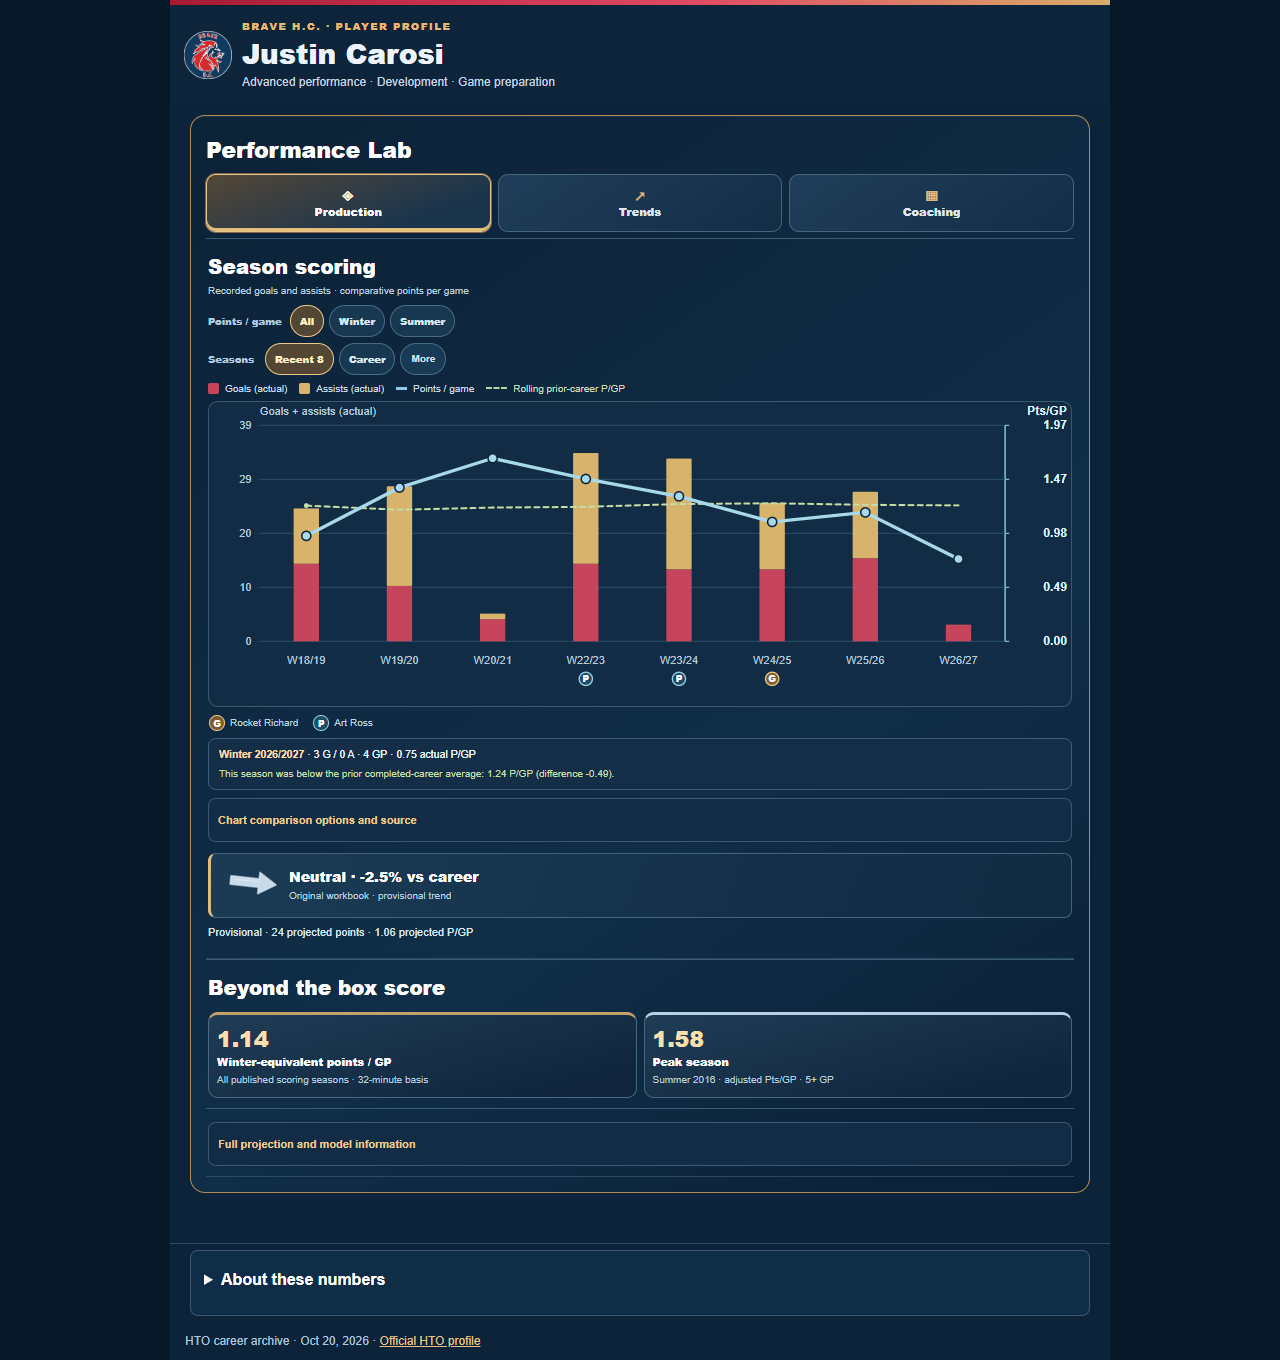
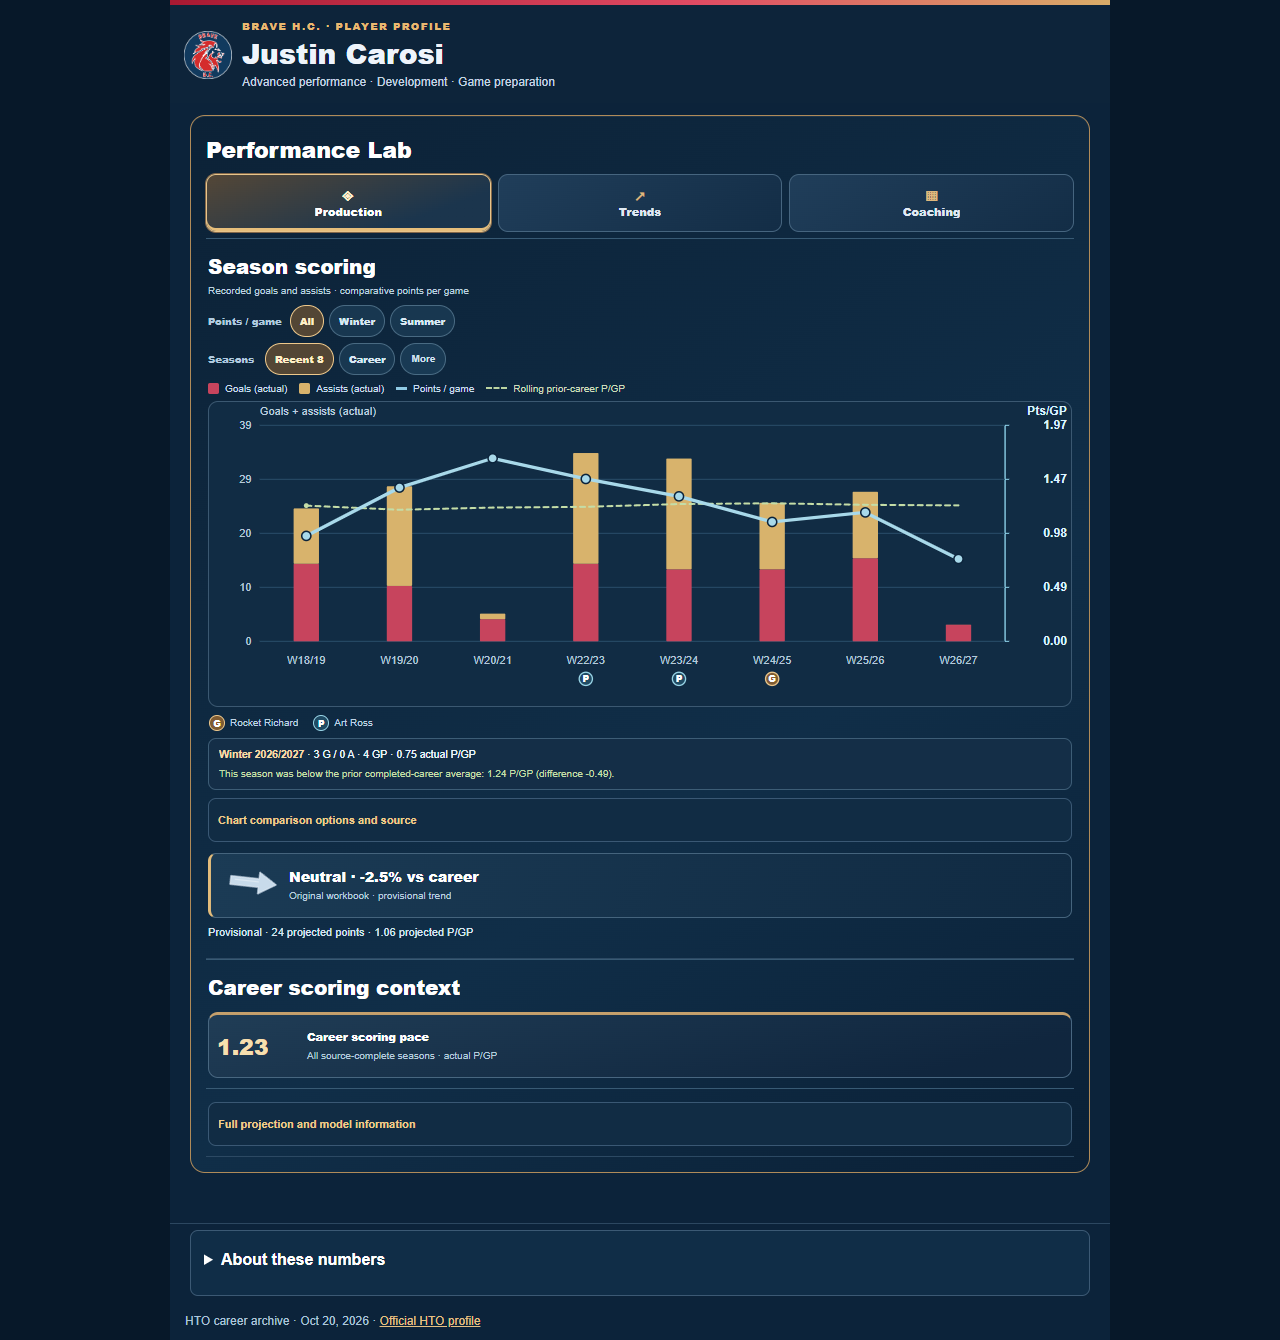
Remove decontextualized Bio peak cards and align career scoring pace with chart basis

diff --git a/widgets/player-bio-premium.js b/widgets/player-bio-premium.js
@@ -105,6 +105,10 @@ function setupTabs(){
         more.open=false;
       }
       renderChart();
+      if(group==='bioRateModes'&&state.player){
+        const player=sources.career?.players?.[state.player];
+        if(player)renderAdvancedMetrics(player);
+      }
     });
   }
 }
@@ -615,6 +619,7 @@ function renderAdvancedMetrics(player){
   const seg=player?.segments?.find(s=>s.kind===wanted);
   const target=$('bioAdvancedGrid'),more=$('bioSecondaryMetrics');
   target.replaceChildren();more.replaceChildren();
+  target.classList.remove('one-stat');
   const result=engine&&seg?(seg.kind==='skater'?engine.skater(seg,sources.formats):engine.goalie(seg,sources.formats)):null;
   const split=$('bioScoringMix');split.replaceChildren();split.hidden=true;
   state.analysis=result;
@@ -628,11 +633,26 @@ function renderAdvancedMetrics(player){
   $('bioCollectionCount').textContent=c.complete+' / '+c.total+' seasons';
   $('bioCollectionSub').textContent='Choose a collection · '+c.complete+' source-qualified '+(seg.kind==='goalie'?'goalie':'scoring')+' seasons';
   if(result.kind==='skater'){
-    insight(target,'Winter-equivalent points / GP',decimal(o.winterPtsPerGP??o.verifiedSeasonWinterPtsPerGP),
-      (o.winterPtsPerGP===null?'Verified seasons only · ':'All published scoring seasons · ')+'32-minute basis');
+    // The headline rate uses the SAME Actual / Winter / Summer time basis as
+    // the chart's Pts/GP line. Never show a Winter-only career value next to
+    // an Actual chart without an explicit basis change.
+    const rolling=window.HockeyOSBioRollingCareer?.calculate(
+      seg.seasons||[],sources.formats,state.rate);
+    const full=rolling?.status==='SOURCE_CALCULATED'&&rolling.complete&&
+      num(rolling.fullCareerRate);
+    const candidate=engine.verifiedSeasons(seg,'skater').valid
+      .filter(r=>num(engine.factor(r.Season,sources.formats,state.rate)));
+    const verifiedRate=engine.rate(candidate,'Pts',state.rate,sources.formats);
+    const shownRate=full?rolling.fullCareerRate:verifiedRate;
+    const basisLabel=state.rate==='actual'?'actual':
+      state.rate==='winter'?'Winter-equivalent':'Summer-equivalent';
+    const gameLength=state.rate==='winter'?' · 32-minute basis':
+      state.rate==='summer'?' · 48-minute basis':'';
+    insight(target,full?'Career scoring pace':'Verified-season scoring pace',
+      decimal(shownRate),
+      (full?'All source-complete seasons':'Available complete-scoring seasons only')+
+      ' · '+basisLabel+' P/GP'+gameLength);
     extra(more,'Share of actual career points from goals',percent(o.goalsShare));
-    insight(target,'Peak season',o.peak?decimal(o.peak.rate):'Unavailable',
-      o.peak?o.peak.season+' · adjusted Pts/GP · 5+ GP':'No 5+ GP verified season');
     // This belongs in the Trends collection, not a duplicate Overview tile.
 
     if(num(o.goalsShare)){
@@ -667,11 +687,10 @@ function renderAdvancedMetrics(player){
     insight(target,'Recorded win-point rate',percent(o.winPointsPct,1),
       'Wins + half ties / actual goalie GP');
     extra(more,'Recorded shutouts per 100 goalie appearances',decimal(o.shutoutPer100,1));
-    extra(more,'Best 5+ GP season, Winter-equivalent GA/appearance',
-      o.peak?o.peak.season+' · '+decimal(o.peak.rate):'Unavailable');
     extra(more,'Actual recorded goals against per appearance',decimal(o.publishedActualGAA));
     extra(more,'Player of the Game awards per 100 goalie GP',decimal(o.playerOfGamePer100,1));
   }
+  target.classList.toggle('one-stat',target.querySelectorAll('.bio-insight-tile').length===1);
   $('bioOtherMetrics').hidden=more.children.length===0;
   $('bioAdvancedSource').textContent='HTO career archive '+date(sources.career?.capturedAt)+
      ' · '+c.complete+'/'+c.total+' seasons with complete core values'+
@@ -691,9 +710,6 @@ function renderDevelopment(player){
     d?'Winter-equivalent '+unit+' · 5+ GP each':'Requires six qualifying seasons');
   insight(target,'Previous three seasons',d?decimal(d.previous):'Unavailable',
     d?'Previous three qualifying seasons':'Historical sample insufficient');
-  insight(target,isGoalie?'Lowest season GA rate':'Highest season scoring rate',
-    o.peak?decimal(o.peak.rate):'Unavailable',
-    o.peak?o.peak.season+' · 5+ GP':'5+ GP season needed');
   if(!isGoalie)insight(target,'Middle-half season range',
     o.middleHalf?decimal(o.middleHalf[0])+'–'+decimal(o.middleHalf[1]):'Unavailable',
     'Winter-equivalent Pts/GP · seasons with 5+ GP');

diff --git a/widgets/player-bio-collection.css b/widgets/player-bio-collection.css
@@ -279,3 +279,13 @@ body{font-family:Arial,"Helvetica Neue",sans-serif;color:#eef4fb}
  .bio-trend-main{font-size:13px}
  .bio-reference-legend{font-size:9px}}
 @media(prefers-reduced-motion:reduce){.bio-trend-direction-arrow g{transition:none}}
+
+/* V2.5: never present a sample-size-free 'Peak season' as a headline performance fact. */
+#bioAdvancedGrid.one-stat{grid-template-columns:minmax(0,1fr)}
+#bioAdvancedGrid.one-stat .bio-insight-tile{min-height:66px;display:grid;
+  grid-template-columns:minmax(78px,auto) minmax(0,1fr);column-gap:12px;align-items:center}
+#bioAdvancedGrid.one-stat .bio-insight-value{grid-row:1/3;align-self:center}
+#bioAdvancedGrid.one-stat .bio-insight-title{align-self:end}
+#bioAdvancedGrid.one-stat .bio-insight-description{align-self:start}
+@media(max-width:350px){#bioAdvancedGrid.one-stat .bio-insight-tile{
+  grid-template-columns:minmax(68px,auto) minmax(0,1fr);column-gap:8px}}

diff --git a/widgets/player-bio.html b/widgets/player-bio.html
@@ -115,8 +115,8 @@ a{color:#e6c083}footer{padding:13px 20px;font-size:.75rem;color:#adc5d9}
 </section>
 <section id="bioAdvancedSection" aria-label="Advanced player performance indicators" hidden>
  <div class="bio-section-top"><div><div class="bio-eyebrow">Advanced indicators</div>
- <h2 class="bio-title">Beyond the box score</h2>
- <p class="bio-desc">Comparable rates and meaningful situational measures, calculated from verified HTO history.</p></div></div>
+ <h2 class="bio-title">Career scoring context</h2>
+ <p class="bio-desc">Comparable career pace; deeper metrics are available under Trends.</p></div></div>
  <div id="bioAdvancedGrid" class="bio-analytics-grid" aria-live="polite"></div>
 
 </section>

diff --git a/docs/261028_Player_Bio_Milestone_Parity_Analytics_V2.md b/docs/261028_Player_Bio_Milestone_Parity_Analytics_V2.md
@@ -131,3 +131,13 @@ A first-season/no-established-baseline model player must visibly read **ROOKIE**
 Video: one source asset may be referenced from approved public Highlights and authorized Coaching annotations with separate access rights. The existing Game363 Video Intelligence shadow candidate remains unpublished. See docs/261028_HockeyOS_Video_Highlights_Coaching_Placement.md.
 
 **Release boundary:** these are V2.4 draft changes within PR #158; they are not a production deployment. Continue automated QA and request a distinct founder review before merging.
+
+## V2.5 — peak-season removal and context alignment (October 28)
+
+The isolated 'Peak season' score was rejected because the label did not explain the player's exposure, game format, and comparison context. Remove that card from **Production and Trends**; do not replace it with another isolated outlier or a fabricated high score. Peak is still calculated internally as a source data point but is no longer a headline user-facing statistic.
+
+**Current Production draft:** the historical chart shows actual G/A bars and a Pts/GP rate and rolling benchmark. Its separate contextual pace card, when available, is the **GP-weighted career rate in the exact same All/Actual, Winter-equivalent or Summer-equivalent comparison basis selected on the chart**. The card labels the basis and whether all recorded career seasons or only source-complete seasons were qualified. On the current source-qualified Justin Carosi example, the different bases would show 1.23 actual, 1.14 Winter-equivalent and 1.70 Summer-equivalent Pts/GP; these are not three simultaneously earned rates and are never written to official stats. No raw peak-season card appears.
+
+**Recent Production future gate:** the founder's desired Last 3 GP / Last 5 GP / Last 10 GP normalized scoring tiles must be calculated from a complete individual player-game participation and scoring record. The current public svhl-player-game-index.json reports SEASON_SCOPED_PARTIAL_PLAYER_GAME_EVENT_EVIDENCE, so currently observed goals/assists do not establish a complete denominator of every scoreless and scoring game played. Do not infer the last ten appearances or treat missing events as zero. Do not populate recent-form cards from provisional workbook projections or partial league events. Reconcile 1:1 with HTO player ID, official game, actual appearance, game type, completed game/season length and scored events; validate 3/5/10 windows against the recorded game log before release.
+
+**Acceptance:** no default Peak season or Highest-season tile in Production/Trends, contextual career basis changes together with chart controls, all rates displayed to two decimals, original earned G/A bars and award milestones unchanged, and separate source-based game-log gates for any future recent-production release. The production V1 remains live; this draft PR #158 is not merged.

diff --git a/AGENTS.md b/AGENTS.md
@@ -1,3 +1,15 @@
+## V2.5 decisive presentation correction — no isolated Peak Season card (October 28, 2026)
+
+The founder rejected the standalone 'Peak season' figure as context-free. **Do not render a headline best/peak-season Pts/GP card in either Production or Trends.** Historical achievements remain in the source-qualified season chart and award markers; no season rate is presented as an earned club record.
+
+Production may show one concise **Career scoring pace** metric, but its rate MUST follow the current chart comparison basis: All = actual (no adjustment), Winter = 32-minute equivalent, Summer = 48-minute equivalent. Show exactly two decimal places, with explicit source completeness and selected game-length basis. Do not juxtapose a Winter-only figure beside an Actual chart.
+
+The founder prefers eventually to show **Last 3 / Last 5 / Last 10 verified player GP** using Winter-equivalent Pts/GP. Do not claim these three rates, create example numbers or show misleading placeholders until individual game-by-game appearances, scoring totals, game type and source identity are reconciled. The current public SVHL game-event index describes **SEASON_SCOPED_PARTIAL_PLAYER_GAME_EVENT_EVIDENCE**; it is insufficient to infer a complete 3/5/10-game participation window, particularly scoreless appearances. When the data becomes complete, source-date and sample size must accompany those recent-production rates. The Milestone-style shell remains the design baseline; do not substitute a generic conceptual dashboard image for the actual tested widget.
+
+This V2.5 direction supersedes any earlier instructions promoting a standalone Peak Season tile or claiming the proposed recent-GP cards are already populated.
+
+---
+
 ## CURRENT Bio implementation guidance — V2.4 review candidate, October 28, 2026
 
 These standing rules supersede conflicting legacy design descriptions below. **Bio main navigation: Production / Trends / Coaching only.** Production shows the earned raw G/A season chart with 2-decimal Pts/GP right axis, 33 verified Rocket Richard/Art Ross markers, a rolling GP-weighted Pts/GP line using **earlier completed seasons only**, a compact **zero-centered, σ-scaled directional arrow** for the published current-season forecast, two summary indicators and optional full projection. No gauge. Full-career fixed comparison is retrospective and optional, not confused with prior-only rolling means. Unverified earlier season rows hold the comparison, not zero. A negative workbook trend must point down even when the unchanged five-state workbook classifier says Neutral.

diff --git a/README.md b/README.md
@@ -7,4 +7,4 @@ Before changing the Player Bio, league-normalization settings, statistics, Recor
 
 ## Player Bio V2 review candidate
 
-[Milestone-parity UX and advanced analytics specification](docs/261028_Player_Bio_Milestone_Parity_Analytics_V2.md): a framed Performance Lab with Production / Trends / Coaching, verified rolling career benchmarks, 2-decimal Pts/GP / 1-decimal projected GP, a zero-centered continuously angled standard-deviation arrow, ROOKIE labels, season title markers, goalie analysis and responsive QA. The V1 Bio remains live. This V2 candidate is not published until review, approval and independent hosted/browser validation.
+[Milestone-parity UX and advanced analytics specification](docs/261028_Player_Bio_Milestone_Parity_Analytics_V2.md): a framed Performance Lab with Production / Trends / Coaching, no standalone Peak Season card, chart-basis-aligned career context and verified rolling career benchmarks, 2-decimal Pts/GP / 1-decimal projected GP, a zero-centered continuously angled standard-deviation arrow, ROOKIE labels, season title markers, goalie analysis and responsive QA. The V1 Bio remains live. This V2 candidate is not published until review, approval and independent hosted/browser validation.
